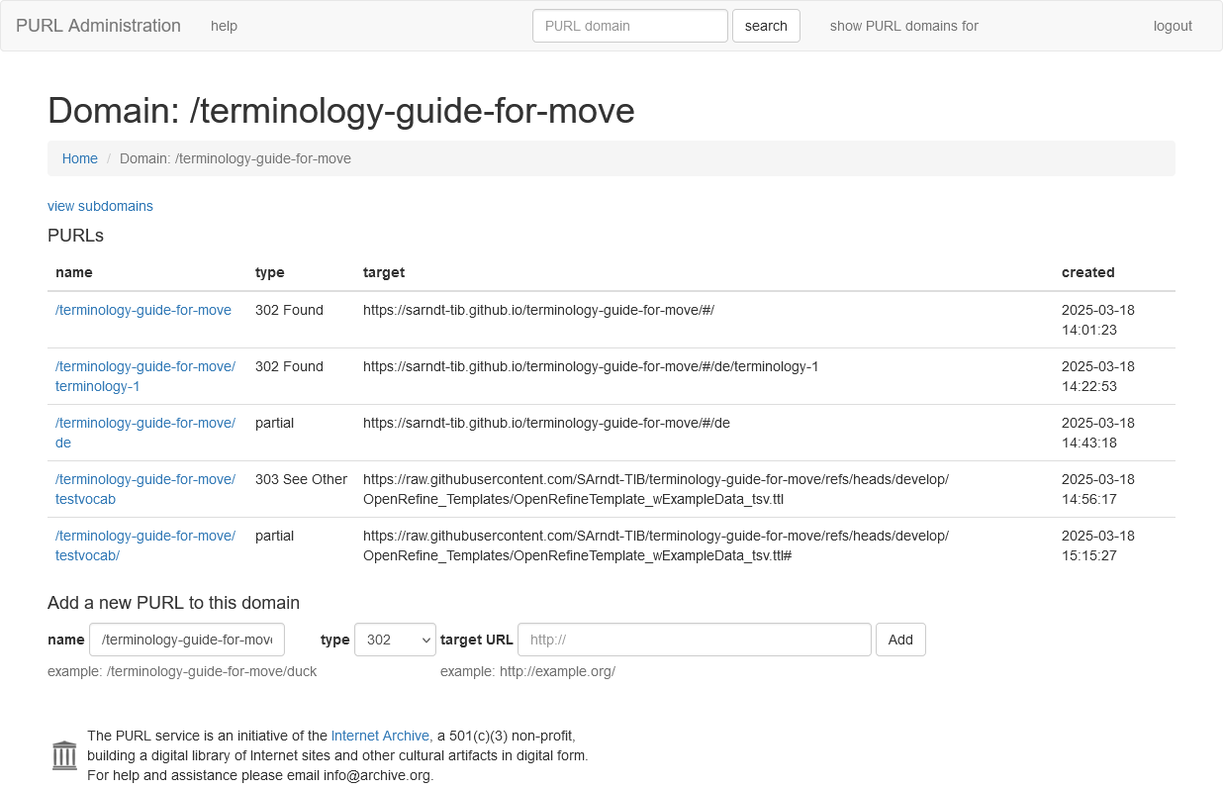
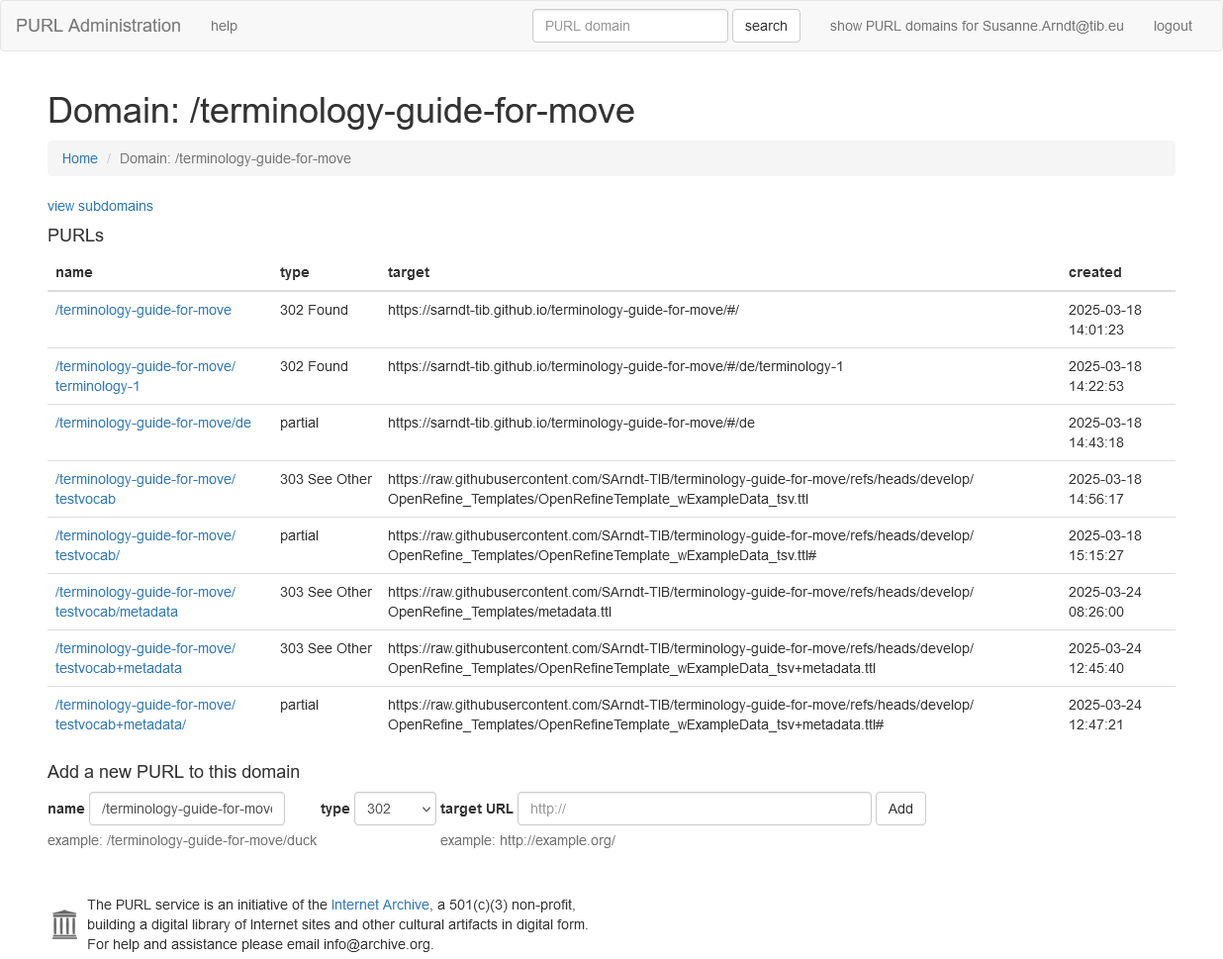
update

diff --git a/docs/de/tutorial-6.md b/docs/de/tutorial-6.md
@@ -1,15 +1,17 @@
 # Metadaten ergänzen
 
-Die im Schritt [Datensammlung, Dokumentation, Konversion](tutorial-12) erzeugten RDF-Dateien sollten jetzt noch um weitere Statements angereichert werden, u.a.mit Metadaten zur gesamten Terminologie und nicht nur zu den einzelnen Einträgen. Warum auch Vokabulare Metadaten haben sollten, erläutern wir [hier](https://github.com/TIBHannover/terminology-metadata/blob/main/MetadataGuide.md#12-why-ontology-metadata).
+Die im Schritt [Datensammlung, Dokumentation, Konversion](tutorial-12) erzeugte RDF-Datei sollten jetzt noch um weitere Statements angereichert werden, u.a. mit Metadaten zur gesamten Terminologie und nicht nur zu den einzelnen Einträgen.
+Warum auch Vokabulare Metadaten haben sollten, erläutern wir [hier](https://github.com/TIBHannover/terminology-metadata/blob/main/MetadataGuide.md#12-why-ontology-metadata).
 
-Hierzu muss das Vokabular als Entität explizit hinzugefügt werden, um darüber Aussagen machen zu können.
-Es braucht nun selbst einen Identifier.
+<!-- Hierzu muss das Vokabular als Entität explizit hinzugefügt werden, um darüber Aussagen machen zu können. -->
+<!-- Es braucht nun selbst einen Identifier. -->
 
 In [Schritt 3 des Konversionsprozesses mit OpenRefine](tutorial-11.md#schritt-3---wechseln-sie-zur-bearbeitungshistorie) wurde durch die Datei [https://raw.githubusercontent.com/SArndt-TIB/terminology-guide-for-move/refs/heads/main/OpenRefine_Templates/rdf-transform-for-move.json](https://raw.githubusercontent.com/SArndt-TIB/terminology-guide-for-move/refs/heads/main/OpenRefine_Templates/rdf-transform-for-move.json) bereits eine Festlegung getroffen, wie die Identifier der einzelnen Quellen, Autoren und Begriffe aussehen sollen.
 
 Unsere Vorlage setzt hierfür im Header der JSON-Datei als sogenannte `baseIRI` den Wert `http://purl.org/terminology-guide-for-move/testvocab/`.
 Dieser wird verwendet, um für jede der Entitäten einen eindeutigen Identifier zu erstellen, z.B. <http://purl.org/terminology-guide-for-move/testvocab/Concept2>.
-Für den Identifier des Vokabulars verwenden wir diesen ohne das abschließende `/`, also `http://purl.org/mydomain/mysubdomain`.
+Diese `baseIRI` wird auch genutzt, um einen Identifier für das gesamte Vokabular zu erstellen.
+Dabei verwenden wir ihn ohne das abschließende `/`, also `http://purl.org/terminology-guide-for-move/testvocab`.
 
 <details>
   <summary>Klicken Sie hier, um den Header der JSON-Datei zu sehen.</summary>
@@ -45,33 +47,26 @@ Für den Identifier des Vokabulars verwenden wir diesen ohne das abschließende 
 ```
 </details>
 
-Idealerweise legen Sie die Metadaten in einer eigenen Datei an, z.B. `metadata.ttl` im selben Repositorium, in dem Sie auch die tabellarische Ausgangsdatei sowie den Turtle-Export der RDF-Konversion verwalten.
+Durch unsere Konversion mit OpenRefine wurde bereits eine entsprechende Entität angelegt, deren Beschreibung wir in nachfolgenden Schritten ergänzen wollen.
+In unserer im [Konversionschritt](tutorial-11.md) erzeugten [Output-Datei](../../OpenRefine_Templates/OpenRefineTemplate_wExampleData_tsv.ttl) finden sich hier bereits folgende Statements.
+Diese wollen wir um neue Statements erweitern.
 
-In dieser Datei ergänzen Sie nun als erstes folgende Statements mit der von Ihnen gewählten `baseIRI`.
-Damit Sie diese Datei auch ggf. mit Spezialtools öffnen können, ergänzen wir hier die auch im Turtle-Export festgelegten Präfixe, mit denen in Turtle die URIs der Entitäten abgekürzt werden können.
+<details>
+<summary>
+Zeige mir die bei der Konversion angelegte Entität
+</summary>
 
 ``` turtle
-@prefix :        <http://purl.org/terminology-guide-for-move/testvocab/> . # ggf. ändern, wenn Sie nicht mit den Beispieldaten unseres Tutorials arbeiten
-@prefix dcat:    <http://www.w3.org/ns/dcat#> .
-@prefix dcterms: <http://purl.org/dc/terms/> .
-@prefix ex:      <https://www.example.com/> .
-@prefix foaf:    <http://xmlns.com/foaf/0.1/> .
-@prefix m4i:     <http://w3id.org/nfdi4ing/metadata4ing#> .
-@prefix owl:     <http://www.w3.org/2002/07/owl#> .
-@prefix rdf:     <http://www.w3.org/1999/02/22-rdf-syntax-ns#> .
-@prefix rdfs:    <http://www.w3.org/2000/01/rdf-schema#> .
-@prefix skos:    <http://www.w3.org/2004/02/skos/core#> .
-@prefix skosxl:  <http://www.w3.org/2008/05/skos-xl#> .
-@prefix vcard:   <http://www.w3.org/2006/vcard/ns#> .
-@prefix xsd:     <http://www.w3.org/2001/XMLSchema#> .
 
-<http://purl.org/mydomain/mysubdomain> rdf:type owl:Ontology ;
-  rdf:type skos:ConceptScheme.
+<http://purl.org/terminology-guide-for-move/testvocab>
+        rdf:type  skos:ConceptScheme , owl:Ontology .
 
 ```
 
-Die TIB – Leibniz-Informationszentrum Technik und Naturwissenschaften und Universitätsbibliothek hat eine Empfehlung für Metadaten für RDF-basierte Terminologien herausgegeben, die Sie bei der Angabe von minimalen bis sehr umfassenden Metadaten unterstützt.
+</details>
 
+Um diese neuen Statements zu erzeugen, verwenden wir ein Tool der [Universitäts- und Landesbibliothek Darmstadt](https://www.ulb.tu-darmstadt.de/die_bibliothek/index.de.jsp) und eine Spezfikation der [TIB – Leibniz-Informationszentrum Technik und Naturwissenschaften und Universitätsbibliothek](https://www.tib.eu).
+Die TIB hat eine Empfehlung für Metadaten für RDF-basierte Terminologien herausgegeben, die Sie bei der Angabe von minimalen bis sehr umfassenden Metadaten unterstützt.
 Sie finden diese Empfehlung ebenfalls auf [GitHub](https://github.com/TIBHannover/terminology-metadata).
 Insbesondere der dort beschriebene Use Case [Metadata recommendations in SHACL - For metadata form generators](https://github.com/TIBHannover/terminology-metadata?tab=readme-ov-file#for-metadata-form-generators) erlaubt Ihnen die schnellste Erfassung von empfohlenen Metadaten für Ihre Terminologie.
 Sie finden dort auch ein kurzes Einführungsvideo zur Nutzung.
@@ -107,7 +102,9 @@ Im Wesentlichen müssen Sie folgende Schritte durchführen:
 
   ![Screenshot des Tools SHACL Form Generator der ULB Darmstadt](images/ULB_Darmstadt-SHACL_Form_Generator.png)
   </details>
-3. Fügen Sie den kopierten Quellcode in die Box mit der Überschrift `Enter your SHACL shapes here` ein und verlassen Sie dann das Feld (zum Beispiel mit der Tabulator-Taste oder durch Klicken auf einen anderen Teil des Tools). Dabei wird ein Formular generiert, in das Sie Ihre Metadaten eingeben können und das zugleich aus den eingegebenen Werten Code generiert und validiert. Die Beispieldaten zeigen Metadaten für das Testvokabular dieses Tutorials:
+3. Fügen Sie den kopierten Quellcode in die Box mit der Überschrift `Enter your SHACL shapes here` ein und verlassen Sie dann das Feld (zum Beispiel mit der Tabulator-Taste oder durch Klicken auf einen anderen Teil des Tools).
+Dabei wird ein Formular generiert, in das Sie Ihre Metadaten eingeben können und das zugleich aus den eingegebenen Werten Code generiert und validiert.
+Die Beispieldaten zeigen Metadaten für das Testvokabular dieses Tutorials.
   
   <details>
   <summary>
@@ -117,11 +114,8 @@ Im Wesentlichen müssen Sie folgende Schritte durchführen:
   ![](images/ULB_Darmstadt-SHACL_Form_Generator-WithData-All_Valid.png)
   </details>
 
-  Sollten Sie Schwierigkeiten mit den angefragten Daten haben, können Sie weitere Hilfestellungen in unserem [Metadaten-Guide](https://github.com/TIBHannover/terminology-metadata/blob/main/MetadataGuide.md) bekommen. Bei Fragen zur Metadaten-Empfehlung können Sie diese in unserem zugehörigen [GitHub-Diskussionforum (Abschnitt Q&A)](https://github.com/TIBHannover/terminology-metadata/discussions/categories/q-a) stellen. Vorschläge und Bugs können Sie uns direkt im [Issue-Tracker](https://github.com/TIBHannover/terminology-metadata/issues) mitteilen.
-4. Nachdem Sie mindestens die Pflichteingaben in der erwarteten Form gemacht haben, werden die Daten als valide angesehen und Sie können den generierten Code kopieren, um ihn für Ihre eigenen Daten zu nutzen. Sie können dazu die Daten exportieren oder einfach kopieren und in einen Text-Editor speichern. Ein beispielhafter Output wäre:
-
-  <details>
-  <summary>Zeige den Code </summary>  
+    <details>
+  <summary>Zeige ein Beispiel für den generierten Code der Metadaten</summary>  
 
   ``` turtle
   @prefix adms: <http://www.w3.org/ns/adms#>.
@@ -159,96 +153,106 @@ Im Wesentlichen müssen Sie folgende Schritte durchführen:
       dcterms:subject <http://d-nb.info/gnd/4059501-8>;
       vann:preferredNamespacePrefix "tgfm";
       dcterms:license <https://creativecommons.org/licenses/by/4.0/legalcode>;
-      owl:versionIRI <http://purl.org/terminology-guide-for-move/testvocab/202500331>;
+      owl:versionIRI <http://purl.org/terminology-guide-for-move/202500331/testvocab>;
       doap:bug-database <https://github.com/SArndt-TIB/terminology-guide-for-move/issues>;
       premis:documentation <http://purl.org/terminology-guide-for-move>;
       a owl:Ontology.
   ```
   </details>
-  
-5. Die Präfix-Definitionen dieses Codes können in die Metadaten-Datei `metadata.ttl` für Ihr Vokabular übernommen werden. So wird sichergestellt, dass alle übernommenen Statements weiterhin korrekt interpretiert werden können. Die einzelnen Statements, die vom Tool der ULB erzeigt wurden, beziehen sich nun auf ein anonymes, nicht-benanntes Element, einen sogenannten _blank node_, der über den Wert `_:9726e62d-e9da-4c9f-a2dc-b13d53e94b96` repräsentiert wird. Diesen Wert können Sie als einen Platzhalter auffassen, der durch die baseIRI Ihres eigenen Vokabulars ersetzt werden muss. Das Statement `_:9726e62d-e9da-4c9f-a2dc-b13d53e94b96 a owl:Ontology` können Sie weglassen, da wir bereits ein vergleichbares Statement in metadata.ttl ergänzt hatten - allerdings mit einer von uns gewählten URL für die Datei und der vollausgeschriebenen Form `rdf:type` von `a`.
-Die restlichen Statements können Sie in die Datei `metadata.ttl` übernehmen.
-Am Ende könnte `metadata.ttl` also folgenden Inhalt haben:
 
+  Sollten Sie Schwierigkeiten mit den angefragten Daten haben, können Sie weitere Hilfestellungen in unserem [Metadaten-Guide](https://github.com/TIBHannover/terminology-metadata/blob/main/MetadataGuide.md) bekommen.
+  Bei Fragen zur Metadaten-Empfehlung können Sie diese in unserem zugehörigen [GitHub-Diskussionforum (Abschnitt Q&A)](https://github.com/TIBHannover/terminology-metadata/discussions/categories/q-a) stellen. Vorschläge und Bugs können Sie uns direkt im [Issue-Tracker](https://github.com/TIBHannover/terminology-metadata/issues) mitteilen.
+4. Nachdem Sie mindestens die Pflichteingaben in der erwarteten Form gemacht haben, werden die Daten als valide angesehen und Sie können den generierten Code kopieren, um ihn für Ihre eigenen Daten zu nutzen.
+  Sie können dazu die Daten exportieren oder einfach kopieren und in einen Text-Editor einfügen.
+  Wichtig ist, dass sie die Informationen dieses Codes an die richtigen Stellen der Output-Datei aus dem Konvertierungsschritt integrieren und dort auch eine korrekte Syntax einhalten.
+  Zunächst müssen die Präfixe übernommen werden.
+  Nur mit ihnen können alle übernommenen Statements weiterhin korrekt interpretiert werden.
+  Zu Demonstrationszwecken haben wir in unseren Beispieldaten eine Kopie von [OpenRefineTemplate_wExampleData_tsv.ttl](https://raw.githubusercontent.com/SArndt-TIB/terminology-guide-for-move/refs/heads/develop/OpenRefine_Templates/OpenRefineTemplate_wExampleData_tsv.ttl) angelegt, die wir [OpenRefineTemplate_wExampleData_tsv+metadata.ttl](https://raw.githubusercontent.com/SArndt-TIB/terminology-guide-for-move/refs/heads/develop/OpenRefine_Templates/OpenRefineTemplate_wExampleData_tsv+metadata.ttl) genannt haben.
+  In dieser haben wir alle neuen Elemente ergänzt.
+    
   <details>
-  <summary>Zeige den Code</summary>
+  <summary>
+  Zeige die erweiterte Präfix-Sektion
+  </summary>
 
-    ``` turtle
-    @prefix :        <http://purl.org/terminology-guide-for-move/testvocab/> . # ggf. ändern, wenn Sie nicht mit den Beispieldaten unseres Tutorials arbeiten
-    @prefix dcat:    <http://www.w3.org/ns/dcat#> .
-    @prefix dcterms: <http://purl.org/dc/terms/> .
-    @prefix ex:      <https://www.example.com/> .
-    @prefix foaf:    <http://xmlns.com/foaf/0.1/> .
-    @prefix m4i:     <http://w3id.org/nfdi4ing/metadata4ing#> .
-    @prefix owl:     <http://www.w3.org/2002/07/owl#> .
-    @prefix skos:    <http://www.w3.org/2004/02/skos/core#> .
-    @prefix skosxl:  <http://www.w3.org/2008/05/skos-xl#> .
-    @prefix vcard:   <http://www.w3.org/2006/vcard/ns#> .
-    @prefix xsd:     <http://www.w3.org/2001/XMLSchema#> .
-    @prefix adms: <http://www.w3.org/ns/adms#>.
-    @prefix bibo: <http://purl.org/ontology/bibo/>.
-    @prefix cc: <http://creativecommons.org/ns#>.
-    @prefix dash: <http://datashapes.org/dash#>.
-    @prefix dbo: <http://dbpedia.org/ontology/>.
-    @prefix dc: <http://purl.org/dc/elements/1.1/>.
-    @prefix doap: <http://usefulinc.com/ns/doap#>.
-    @prefix idot: <http://identifiers.org/idot/>.
-    @prefix mod: <https://w3id.org/mod#>.
-    @prefix obo: <http://purl.obolibrary.org/obo/>.
-    @prefix ontometa4forms: <https://www.purl.org/ontologymetadata/shape4forms#>.
-    @prefix pav: <http://purl.org/pav/>.
-    @prefix prov: <http://www.w3.org/ns/prov#>.
-    @prefix premis: <http://www.loc.gov/premis/rdf/v3/>.
-    @prefix rdf: <http://www.w3.org/1999/02/22-rdf-syntax-ns#>.
-    @prefix rdfs: <http://www.w3.org/2000/01/rdf-schema#>.
-    @prefix sdo: <https://schema.org/>.
-    @prefix sh: <http://www.w3.org/ns/shacl#>.
-    @prefix vann: <http://purl.org/vocab/vann/>.
-    @prefix void: <http://rdfs.org/ns/void#>.
-    @prefix vs: <http://www.w3.org/2003/06/sw-vocab-status/ns#>.
-
-    <http://purl.org/terminology-guide-for-move/testvocab/>  rdf:type owl:Ontology ;
-      rdf:type skos:ConceptScheme;
-      <!-- ab hier finden Sie die mit dem Tool der ULB-Darmstadt erzeugten Statments -->
-      dcterms:title "Demo-Vokabular für den Terminology Guide for Move"@de;
-      dcterms:creator <https://orcid.org/0000-0002-1019-9151>;
-      dcterms:created "2025-03-21T13:56:00"^^xsd:dateTime;
-      dcterms:abstract "Ein Vokabular, das mit OpenRefine aus einer Tabelle erzeugt wurde und das als Demonstrationsmaterial in einem Tutorial des FID move zur FAIRöffentlichung von Fachterminologie dient."@de;
-      dcterms:subject <http://d-nb.info/gnd/4059501-8>;
-      vann:preferredNamespacePrefix "tgfm";
-      dcterms:license <https://creativecommons.org/licenses/by/4.0/legalcode>;
-      owl:versionIRI <http://purl.org/terminology-guide-for-move/testvocab/202500331>;
-      doap:bug-database <https://github.com/SArndt-TIB/terminology-guide-for-move/issues>;
-      premis:documentation <http://purl.org/terminology-guide-for-move>;
-      .
+  ``` turtle
+  @prefix : <http://purl.org/terminology-guide-for-move/testvocab/> . # diese URI muss am Ende durch Ihren eigene gewünschte ID ersetzt werden
+  @prefix dcat: <http://www.w3.org/ns/dcat#> .
+  @prefix dcterms: <http://purl.org/dc/terms/> .
+  @prefix ex: <https://www.example.com/> .
+  @prefix foaf: <http://xmlns.com/foaf/0.1/> .
+  @prefix m4i: <http://w3id.org/nfdi4ing/metadata4ing#> .
+  @prefix owl: <http://www.w3.org/2002/07/owl#> .
+  @prefix rdf: <http://www.w3.org/1999/02/22-rdf-syntax-ns#> .
+  @prefix rdfs: <http://www.w3.org/2000/01/rdf-schema#> .
+  @prefix skos: <http://www.w3.org/2004/02/skos/core#> .
+  @prefix skosxl: <http://www.w3.org/2008/05/skos-xl#> .
+  @prefix vcard: <http://www.w3.org/2006/vcard/ns#> .
+  @prefix xsd: <http://www.w3.org/2001/XMLSchema#> .
+  @prefix adms: <http://www.w3.org/ns/adms#>.
+  @prefix bibo: <http://purl.org/ontology/bibo/>.
+  @prefix cc: <http://creativecommons.org/ns#>.
+  @prefix dash: <http://datashapes.org/dash#>.
+  @prefix dbo: <http://dbpedia.org/ontology/>.
+  @prefix dc: <http://purl.org/dc/elements/1.1/>.
+  @prefix doap: <http://usefulinc.com/ns/doap#>.
+  @prefix idot: <http://identifiers.org/idot/>.
+  @prefix mod: <https://w3id.org/mod#>.
+  @prefix obo: <http://purl.obolibrary.org/obo/>.
+  @prefix ontometa4forms: <https://www.purl.org/ontologymetadata/shape4forms#>.
+  @prefix pav: <http://purl.org/pav/>.
+  @prefix prov: <http://www.w3.org/ns/prov#>.
+  @prefix premis: <http://www.loc.gov/premis/rdf/v3/>.
+  @prefix rdf: <http://www.w3.org/1999/02/22-rdf-syntax-ns#>.
+  @prefix rdfs: <http://www.w3.org/2000/01/rdf-schema#>.
+  @prefix sdo: <https://schema.org/>.
+  @prefix sh: <http://www.w3.org/ns/shacl#>.
+  @prefix vann: <http://purl.org/vocab/vann/>.
+  @prefix void: <http://rdfs.org/ns/void#>.
+  @prefix vs: <http://www.w3.org/2003/06/sw-vocab-status/ns#>.
   ```
+
   </details>
 
-* [ ] jetzt noch erklären, wie man den OpenRefine-Output und die metadata.ttl zusammenbringt
-<!-- testen, ob die Verwendung derselben IRI im metadata.ttl nicht vielleicht doch als Fehler erkannt wird -->
-* [ ] PURL für metadata.ttl anlegen
-* [ ] metadata.ttl ins Repo pushen
-* [ ] 
-Die Datei `metadata.ttl` kann separat auf dem GitHub-Repositorium verwaltet werden und vom Vokabular importiert werden.
-Hierfür muss dem Vokabular nach dem Erzeugen ein Statement hinzugefügt werden, in dem der Ort der Datei `metadata.ttl` angegeben wird.
-Dies kann entweder ein raw-Link von GitHub sein, was in unserem Fall <https://raw.githubusercontent.com/SArndt-TIB/terminology-guide-for-move/refs/heads/develop/OpenRefine_Templates/OpenRefineTemplate_wExampleData_tsv.ttl> wäre.
-Wir können aber auch für diese Datei eine PURL einrichten, z.B. <http://purl.org/terminology-guide-for-move/testvocab/metadata>.
+  Die zu übernehmenden Statements, die vom Tool der ULB Darmstadt erzeugt wurden, beziehen sich auf ein anonymes, nicht-benanntes Element, einen sogenannten _blank node_, der über den Wert `_:9726e62d-e9da-4c9f-a2dc-b13d53e94b96` repräsentiert wird.
+  Diesen Wert können Sie als einen Platzhalter auffassen, der durch die `baseIRI` Ihres eigenen Vokabulars ersetzt werden muss.
+  Das Statement `_:9726e62d-e9da-4c9f-a2dc-b13d53e94b96 a owl:Ontology` können Sie zudem weglassen, da wir bereits ein vergleichbares Statement in unserem Output haben - das sich auf die von uns gewählte `baseIRI` bezieht und die vollausgeschriebenen Form der Property `a`, nämlich `rdf:type`, verwendet.
+  Die restlichen erzeugten Statements können Sie an der Entität, die als owl:Ontology deklariert wurde, ergänzen.
 
-``` turtle
-<http://purl.org/terminology-guide-for-move/testvocab/> owl:imports <http://purl.org/terminology-guide-for-move/testvocab/metadata>.
-```
+  <details>
+  <summary>Zeige die erweiterte Entität &#139;http://purl.org/terminology-guide-for-move/testvocab&#8250;</summary>
 
-Durch den Import werden in Anwendungen, die den Turtle-Code laden können, dann auch die Metadaten geladen. Wir zeigen den Unterschied im Screenshot im Editor Protégé
+  ``` turtle
+  <http://purl.org/terminology-guide-for-move/testvocab>  rdf:type owl:Ontology ;
+    rdf:type skos:ConceptScheme;
+    # ab hier finden Sie die mit dem Tool der ULB-Darmstadt erzeugten Statments
+    dcterms:title "Demo-Vokabular für den Terminology Guide for Move"@de;
+    dcterms:creator <https://orcid.org/0000-0002-1019-9151>;
+    dcterms:created "2025-03-21T13:56:00"^^xsd:dateTime;
+    dcterms:abstract "Ein Vokabular, das mit OpenRefine aus einer Tabelle erzeugt wurde und das als Demonstrationsmaterial in einem Tutorial des FID move zur FAIRöffentlichung von Fachterminologie dient."@de;
+    dcterms:subject <http://d-nb.info/gnd/4059501-8>;
+    vann:preferredNamespacePrefix "tgfm";
+    dcterms:license <https://creativecommons.org/licenses/by/4.0/legalcode>;
+    owl:versionIRI <http://purl.org/terminology-guide-for-move/202500331/testvocab>;
+    doap:bug-database <https://github.com/SArndt-TIB/terminology-guide-for-move/issues>;
+    premis:documentation <http://purl.org/terminology-guide-for-move>;
+    .
+  ```
+
+  </details>
+
+<!-- 
 
 <details>
 <summary>
 Zeige den Vergleich
 </summary>
 
-|Ohne Metadaten|Mit Metadaten|
-|-|-|
-|![](images/testvocab-without-metadata.png)|![](images/testvocab-without-metadata.png)|
+![](images/testvocab-without-metadata.png)
 
-</details>
+![](images/testvocab-with-metadata.png)|
 
-Bei diesem Verfahren sollte man jedoch sehr genau darauf achten, dass die Metadaten bei einer neuen Erzeugung des Vokabulars aktualisiert werden und dass auch das IMport-Statement in einer neuen Version des Vokabulars nicht vergessen wird.
+</details> -->
+
+Man sollte sehr genau darauf achten, dass die Metadaten bei einer neuen Erzeugung des Vokabulars geprüft und ggf. aktualisiert werden.
+Um nicht alle Metadaten jedesmal wieder erzeugen zu müssen, kann man die Metadaten auch in einer eigenen Datei verwalten und ebenfalls auf dem eigenen Repositorium verfügbar halten.

diff --git a/docs/de/tutorial-9.md b/docs/de/tutorial-9.md
@@ -5,18 +5,39 @@
 Auch Terminologien, die für das Semantic Web aufbereitet werden, sollen am Ende den [FAIR-Prinzipien](https://www.go-fair.org/fair-principles/) genügen.
 Das bedeutet, sie müssen **F**indable (auffindbar), **A**ccessible (zugänglich), **I**nteroperable (interoperabel) und **R**e-Usable (nachnutbar) sein.
 Die FAIR-Prinzipien legen eine Reihe von Kriterien fest, die erfüllt sein müssen, damit eine Ressource FAIR ist.
-Inzwischen wurden diese Kriterien auch schon im Sinne "semantischer Artefakte" (z.B. SKOS-Vokabulare, wie wir es hier erstellt haben) interpretiert und in entsprechenden Prüftools implementiert. Ein solches Tool ist der [FOOPS Validator](https://foops.linkeddata.es/FAIR_validator.html), in den man einfach nur den Link einer Ressource eingeben muss, um eine Einschätzung ihrer FAIRness gegeliedert nach den einzelnen FAIR-Prinzipien zu bekommen.
+Inzwischen wurden diese Kriterien auch schon im Sinne "semantischer Artefakte" (z.B. SKOS-Vokabulare, wie wir es hier erstellt haben) interpretiert und in entsprechenden Prüftools implementiert.
+Ein solches Tool ist der [FOOPS Validator](https://foops.linkeddata.es/FAIR_validator.html), in den man einfach nur den Link einer Ressource eingeben muss, um eine Einschätzung ihrer FAIRness gegeliedert nach den einzelnen FAIR-Prinzipien zu bekommen.
 
-Versuchen wir dies einmal mit dem im GitHub-Repositorium abgelegten Test-Vokabular, das wir im Schritt [Tabellarische Datenverwaltung für OpenRefine](tutorial-13.md) erstellt haben und für das wir in [Identifier erstellen](tutorial-7.md#purlorg) die PURL <http://purl.org/terminology-guide-for-move> eingerichtet hatten.
-
-<!-- der datei fehlen noch die metadaten, und ein `a owl:Ontology` statement, da wird aktuell noch gar nichts erkannt -->
+Versuchen wir dies einmal mit dem im GitHub-Repositorium abgelegten Test-Vokabular, das wir im Schritt [Tabellarische Datenverwaltung für OpenRefine](tutorial-13.md) erstellt haben und für das wir in [Identifier erstellen](tutorial-7.md#purlorg) die PURL <http://purl.org/terminology-guide-for-move/testvocab> eingerichtet hatten.
 
 <details>
-<summary>Ergebnis des FOOPS-Validators</summary>
+<summary>Zeige Ergebnis des FOOPS-Validators für &#60;http://purl.org/terminology-guide-for-move/testvocab&#62;</summary>
 
 ![](images/FOOPS_eval_of_test_vocab.png)
 
 </details>
+
+Das Ergebnis ist noch relativ ernüchternd - das Vokabular erreicht gerade einmal 38&nbsp;% der maximal erreichbaren Punktzahl.
+Dies liegt vor allem daran, dass hier noch keine Metadaten zum Vokabular enthalten sind.
+Führen wir denselben Test für <http://purl.org/terminology-guide-for-move/testvocab+metadata> aus, so verdoppelt sich die erreichte Punktzahl ungefähr.
+
+<details>
+<summary>Zeige Ergebnis des FOOPS-Validators für &#60;http://purl.org/terminology-guide-for-move/testvocab+metadata&#62;</summary>
+
+<!-- ![](images/FOOPS_eval_of_test_vocab.png) -->
+![](images/FOOPS_eval_of_testvocab+metadata.png)
+
+</details>
+
+Es gibt jedoch noch immer einige Punkte, die angemerkt werden:
+
+* Der Test _URI2: Consistent ontology IDs_ tritt hier nur auf, weil wir zwei verschiedene Dateien angelegt haben, die innerhalb der Datei, denselben Identifiert verwenden, aber tatsächlich durch verschiedene Identifier aufgerufen werden müssen.
+  Wenn man - anders als in diesem Tutorial zu Demonstrationszwecken geschehen - nur eine Datei für das Vokabular anlegt (inkl. Metadaten) und die dafür registrierte PURL verwendet, schlägt dieser Test nicht aus.
+* Die Tests _OM1: Minimum metadata_, _OM2: Recommended metadata_, _OM3: Detailed metadata_ und _OM5&#95;2: Detailed provenance metadata_ suchen nach Metadaten, die wir auch empfehlen, jedoch nicht vorschreiben und im Rahmen der Metadatengenerierung im Rahmen dieses Tutorials nicht angegeben haben.
+* Der Test _FIND3: Ontology in metadata registry_ prüft, ob das Vokabular oder zumindest seine Metadaten in einem Terminology Service registriert sind. Der Test prüft dabei ausschließlich die Registrierung bei [Linked Open Vocabularies](https://lov.linkeddata.es/dataset/lov) ab und hat deswegen nur begrenzte Aussagekraft.
+  Dasselbe prüft auch der Test _FIND&#95;3&#95;BIS: Metadata are accessible, even when ontology is not_ allerdings mit einer anderen Fragestellung. Auch hier wird die Prüfung nur auf [Linked Open Vocabularies](https://lov.linkeddata.es/dataset/lov) durchgeführt.
+* Der Test _VER2: Version IRI resolves_ schlägt heute (24.03.2025) noch aus, weil ein Versions-Identifier in der Ontologie zwar schon verwendet wurde, aber noch keine Weiterleitung eingerichtet werden konnte, da wir noch kein entsprechendes Release herausgeben konnten. Dieser Test kann erst positiv sein, wenn das Release erschienen ist.
+* _VOC4: Documentation: definitions_ sucht nach beschreibenden Texten für die einzelnen Begriffe. Unser Vokabular entspricht hierbei nicht ganz dem wonach dieses Tool sucht. Wir haben das Vokabular sowohl als OWL Ontologie als auch als SKOS Vokabular deklariert. Das Tool scheint es nur einer dieser beiden Kategorien zuzuordnen und sucht deswegen nach rdfs:comments. Diese Properties verwendet das Vokabular nicht, da sie viel zu allgemein ist. Stattdessen verwenden wir eine Property namens `skos:definition`.
 
 * jskos
 * SKOS Play

diff --git a/docs/de/tutorial-7.md b/docs/de/tutorial-7.md
@@ -102,16 +102,23 @@ Auch jede beliebige andere PURL mit einem korrekten PURL-Namen löst mit dieser 
 Für das mit OpenRefine erzeugte Beispieldatenvokabular (vgl. [Konversion nach RDF)](tutorial-11.md)) hatten wir bereits eine PURL verwendet.
 Auch diese wurde über den PURL-Dienst als Subdomain von <http://purl.org/terminology-guide-for-move> als <http://purl.org/terminology-guide-for-move/testvocab> registriert.
 Sie leitet mit HTTP-Status-Code `303 See Other` zur Rohdatei auf GitHub, die unter <https://raw.githubusercontent.com/SArndt-TIB/terminology-guide-for-move/refs/heads/develop/OpenRefine_Templates/OpenRefineTemplate_wExampleData_tsv.ttl> erreichbar ist.
+Auch für die Version des Vokabulars mit Metadaten sollten wir eine PURL einrichten.
+Diese kann man unter [http://purl.org/terminology-guide-for-move/testvocab+metadata](https://raw.githubusercontent.com/SArndt-TIB/terminology-guide-for-move/refs/heads/develop/OpenRefine_Templates/OpenRefineTemplate_wExampleData_tsv+metadata.ttl) erreichen.
 
-Die Identifier der einzelnen Entitäten des Vokabular beinhalten diese PURL als Bestandteil, da sie als Basis-IRI für das Vokabular verwendet wurde.
+Die Identifier der einzelnen Entitäten des Vokabulars beinhalten die PURL des Vokabulars (ohne Metadaten) <http://purl.org/terminology-guide-for-move/testvocab/> als Bestandteil, da sie als Basis-IRI für das Vokabular bei dessen Erzeugung verwendet wurde.
 Wir hatten zum Beispiel Entitäten wie <http://purl.org/terminology-guide-for-move/testvocab/Concept5> angelegt.
 Auch diese könnten jetzt mit einer PURL aufgelöst werden, wofür aber noch weitere Konfiguration notwendig ist.
-Die aktuelle Konfiguration löst einen `404 Not found`-Fehler aus.
+Die Konfiguration wie wir sie bis hierhin vorgenommen haben, löst einen `404 Not found`-Fehler aus.
 Mit einer neuen partiellen Weiterleitung von <http://purl.org//terminology-guide-for-move/testvocab/> auf <https://raw.githubusercontent.com/SArndt-TIB/terminology-guide-for-move/refs/heads/develop/OpenRefine_Templates/OpenRefineTemplate_wExampleData_tsv.ttl#>, also auf ein Fragment des Vokabulars, wird die Auflösung der Entitäten-Identifier des Vokabulars zumindest auf das gesamte Vokabulardokument möglich.
 In einem Tool wie Protégé wird dann mit dem Aufrufen des Identifiers des Begriffs das gesamte Vokabular geladen.
+
+Diese Identifier lösen nicht auf die Version mit Metadaten auf.
+Um dies zu erreichen, haben wir eine weitere Umleitung eingerichtet von [http://purl.org/terminology-guide-for-move/testvocab+metadata](http://purl.org/terminology-guide-for-move/testvocab+metadata) auf die Location [https://raw.githubusercontent.com/SArndt-TIB/terminology-guide-for-move/refs/heads/develop/OpenRefine_Templates/OpenRefineTemplate_wExampleData_tsv+metadata.ttl#](https://raw.githubusercontent.com/SArndt-TIB/terminology-guide-for-move/refs/heads/develop/OpenRefine_Templates/OpenRefineTemplate_wExampleData_tsv+metadata.ttl#).
+Mit dieser erneut partiellen Umleitung können die Identifier der einzelnen Begriffe angepasst (<http://purl.org/terminology-guide-for-move/testvocab+metadata/Concept5>) werden und rufen dann das Vokabular mit Metadaten ab.
+Diese Identifier werden durch das Vokabular allerdings nicht verwendet.
+Für ein eigenes Vokabular ist es empfehlenswert, die Metadaten gleich in die richtige Datei einzufügen und die PURL für das Gesamtvokabular inkl. Metadaten zu vergeben - anders als es hier zu Demonstrationszwecken erfolgt ist.
 <!-- Je nach Browser wird auch gleich der Sprung an die richtige Stelle im Dokument vorgenommen. > nein, stimmt irgendwie nicht, zumindest nicht bei GitHub raw files -->
 Die gesamten Konfigurationen sind im folgeden Screenshot aufgelistet.
-
 * [ ] TODO: zeigen, wie man auf eine versionierte Version auflösen kann.
 <!-- * [ ] TODO: zeigen, wie man auf einzelne Begriffe auflöst? die müssten dann aber auch als eigenes Dokument angelegt werden, was einen weiteren Prozessierungsschritt erfordert... -->
 
